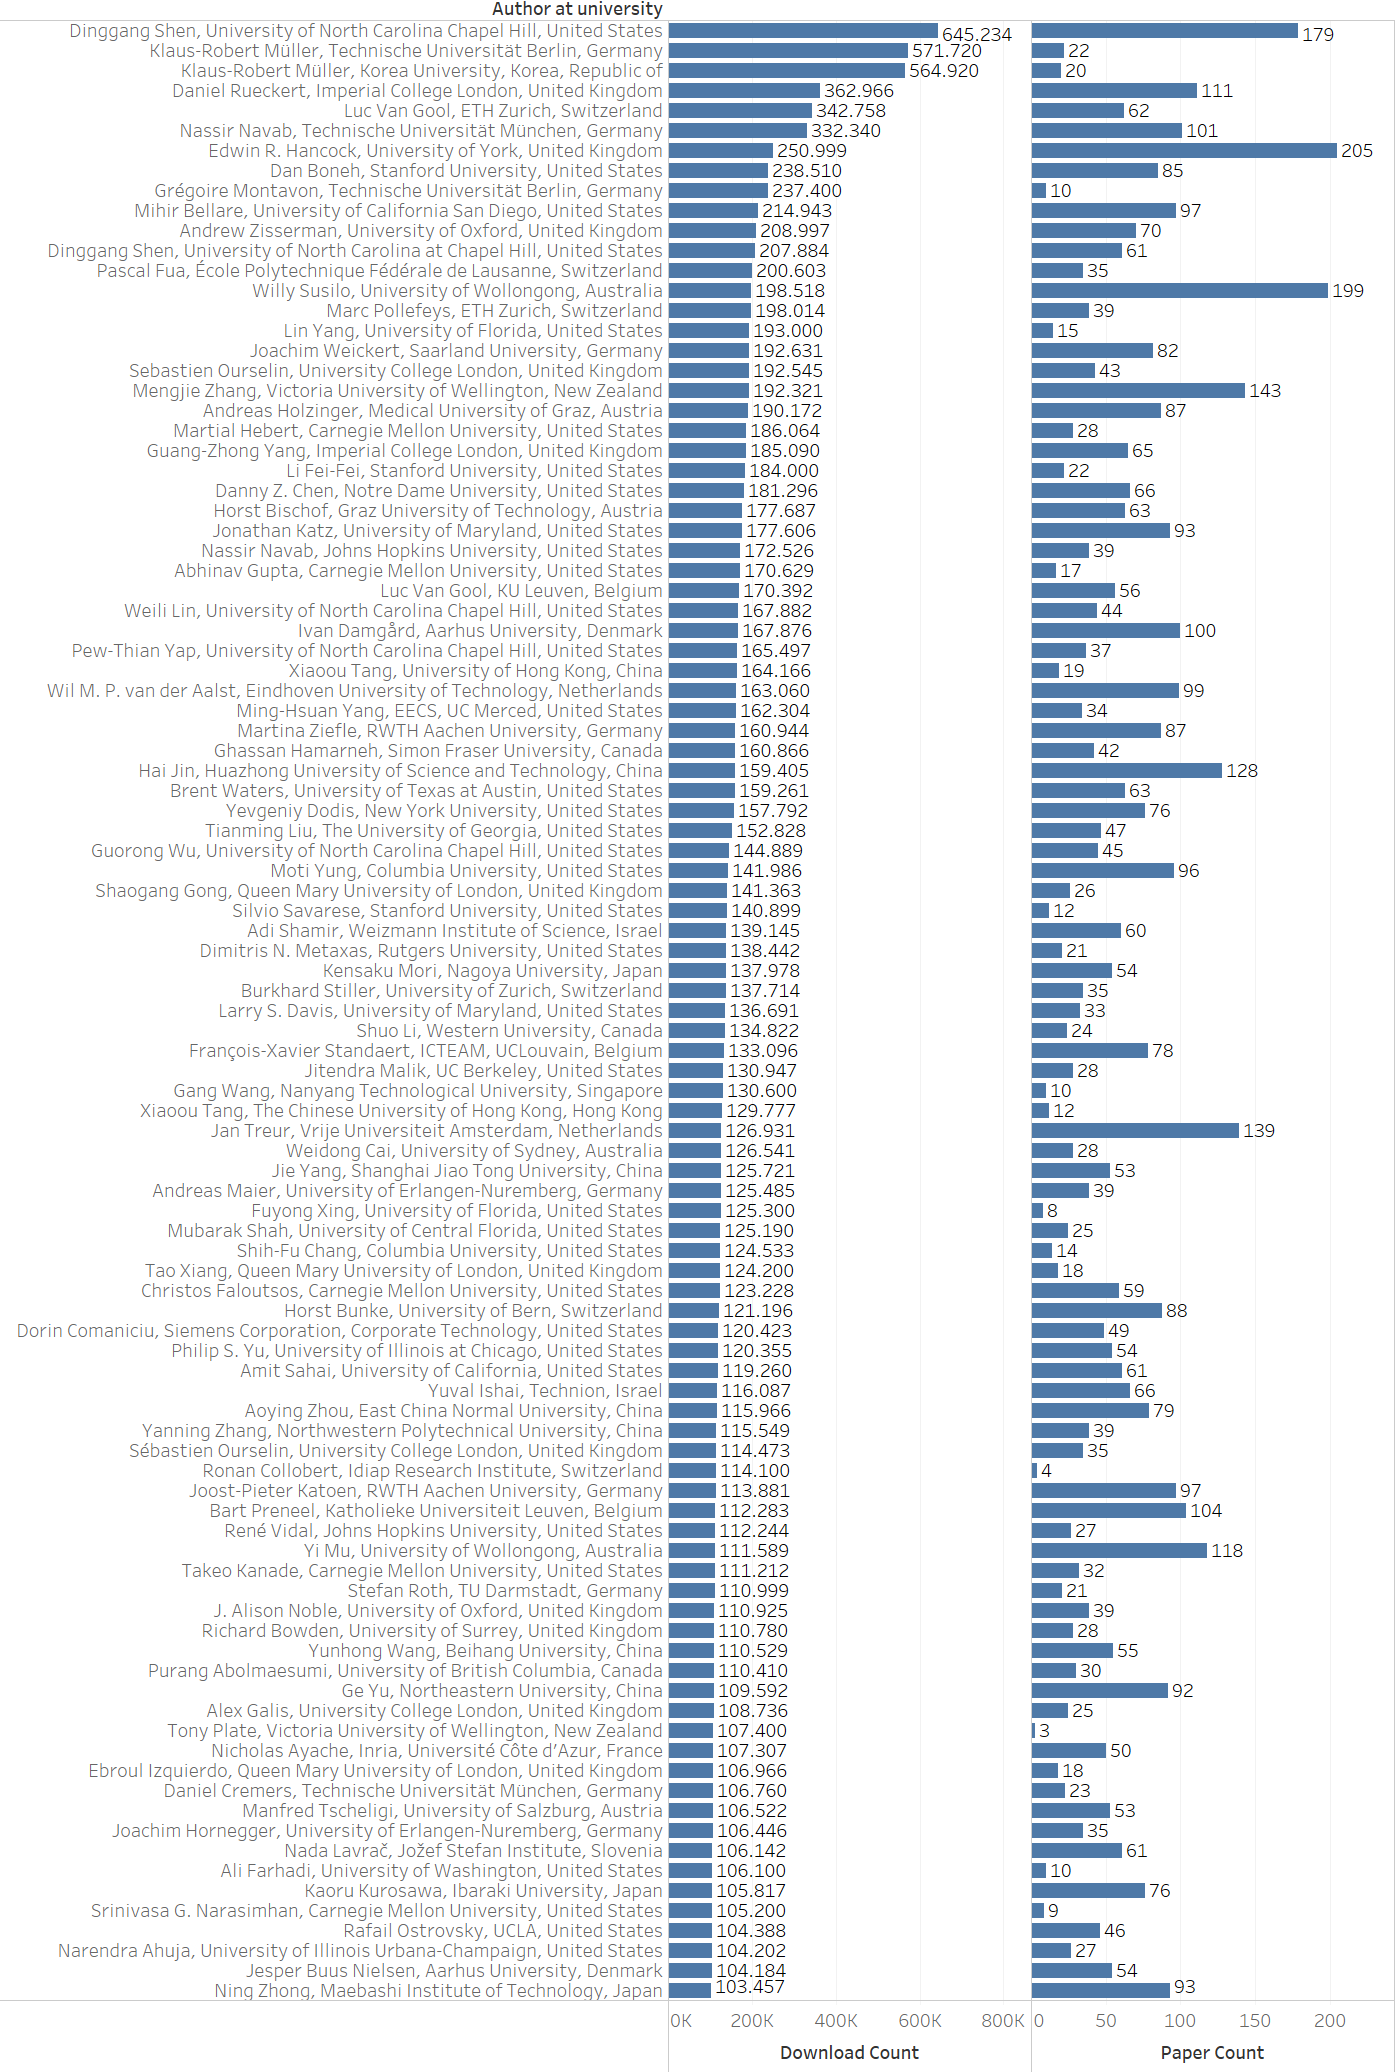
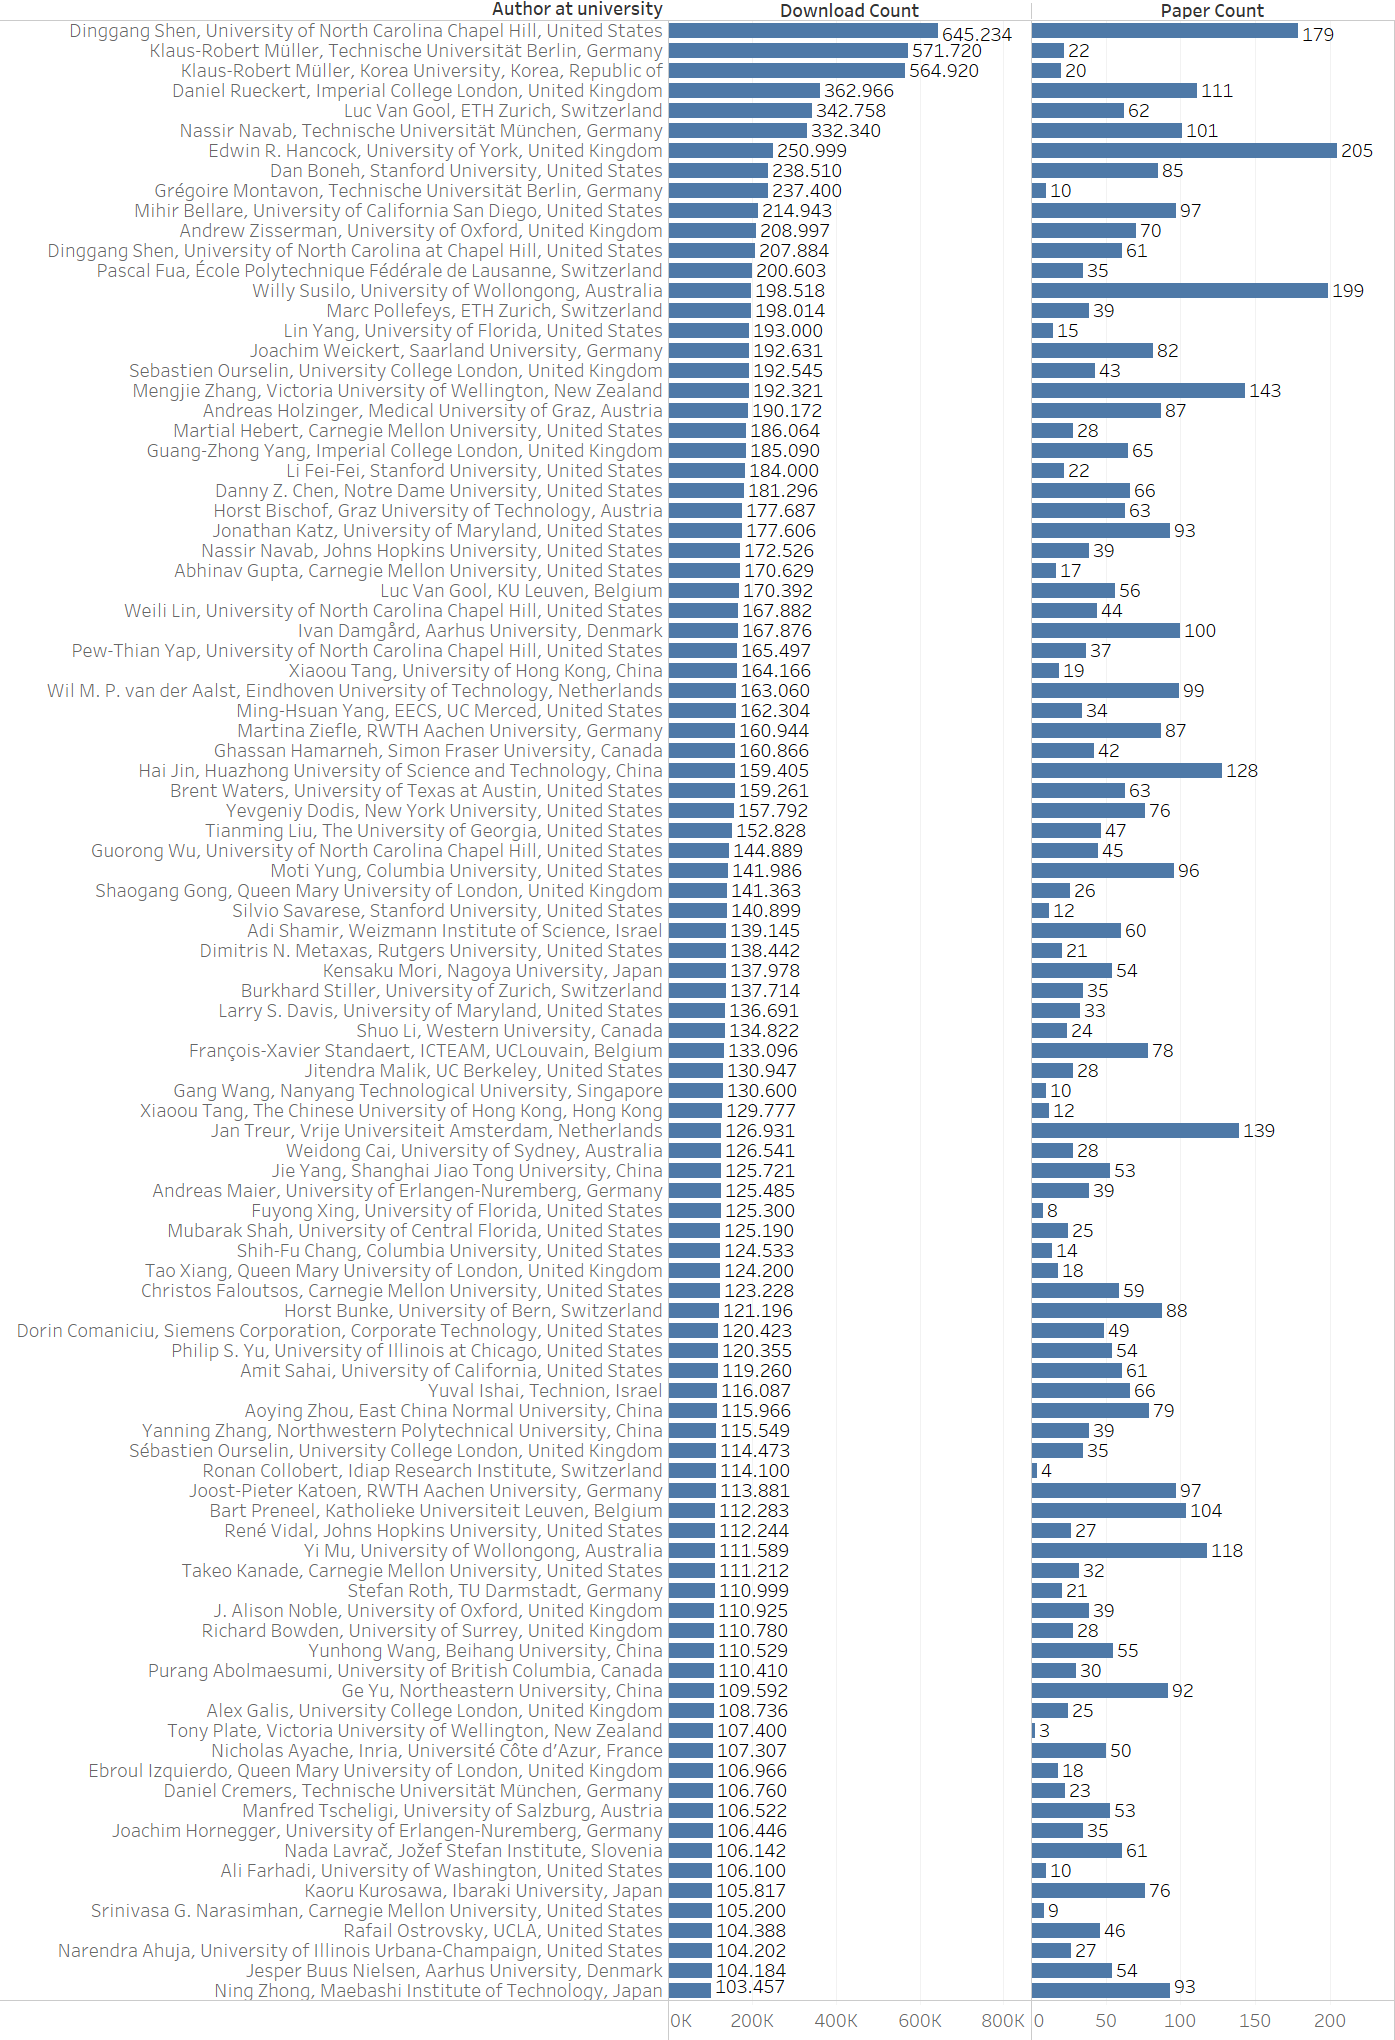
adapt heights for squished bar charts

diff --git a/src/pages/VisualizationUniversitiesPage.js b/src/pages/VisualizationUniversitiesPage.js
@@ -21,13 +21,25 @@ export default function VisualizationUniversitiesPage() {
         our dataset.
       </Typography>
       <div className={classes.questionList}>
-        <Question title="#7" flourishId="3188543"></Question>
+        <Question
+          title="#7"
+          flourishId="3188543"
+          iframeHeight="2500px"
+        ></Question>
         <Divider></Divider>
         <Question title="#9" flourishId="3189234"></Question>
         <Divider></Divider>
-        <Question title="#16" flourishId="3137816"></Question>
+        <Question
+          title="#16"
+          flourishId="3137816"
+          iframeHeight="2500px"
+        ></Question>
         <Divider></Divider>
-        <Question title="#28" flourishId="3114554"></Question>
+        <Question
+          title="#28"
+          flourishId="3114554"
+          iframeHeight="1400px"
+        ></Question>
       </div>
     </main>
   );

diff --git a/src/pages/VisualizationAuthorsPage.js b/src/pages/VisualizationAuthorsPage.js
@@ -30,9 +30,17 @@ export default function VisualizationAuthorsPage() {
         <Divider></Divider>
         <Question title="#19" flourishId="2993152"></Question>
         <Divider></Divider>
-        <Question title="#20" flourishId="3137839"></Question>
+        <Question
+          title="#20"
+          flourishId="3137839"
+          iframeHeight="2500px"
+        ></Question>
         <Divider></Divider>
-        <Question title="#21" flourishId="3139367"></Question>
+        <Question
+          title="#21"
+          flourishId="3139367"
+          iframeHeight="2500px"
+        ></Question>
         <Divider></Divider>
         <Question title="#23" flourishId="3126620"></Question>
         <Divider></Divider>

diff --git a/src/pages/VisualizationKeywordsPage.js b/src/pages/VisualizationKeywordsPage.js
@@ -4,7 +4,6 @@ import Typography from "@material-ui/core/Typography";
 import { makeStyles } from "@material-ui/core/styles";
 import Question from "../Question";
 import question2 from "../images/question2.png";
-import question8 from "../images/question8.png";
 
 const useStyles = makeStyles((theme) => ({
   questionList: {
@@ -36,7 +35,7 @@ export default function VisualizationKeywordsPage() {
           />
         </Question>
         <Divider></Divider>
-        <Question title="#8" imageSrc={question8}></Question>
+        <Question title="#8" flourishId="3189384"></Question>
         <Divider></Divider>
         <Question
           title="#25"
